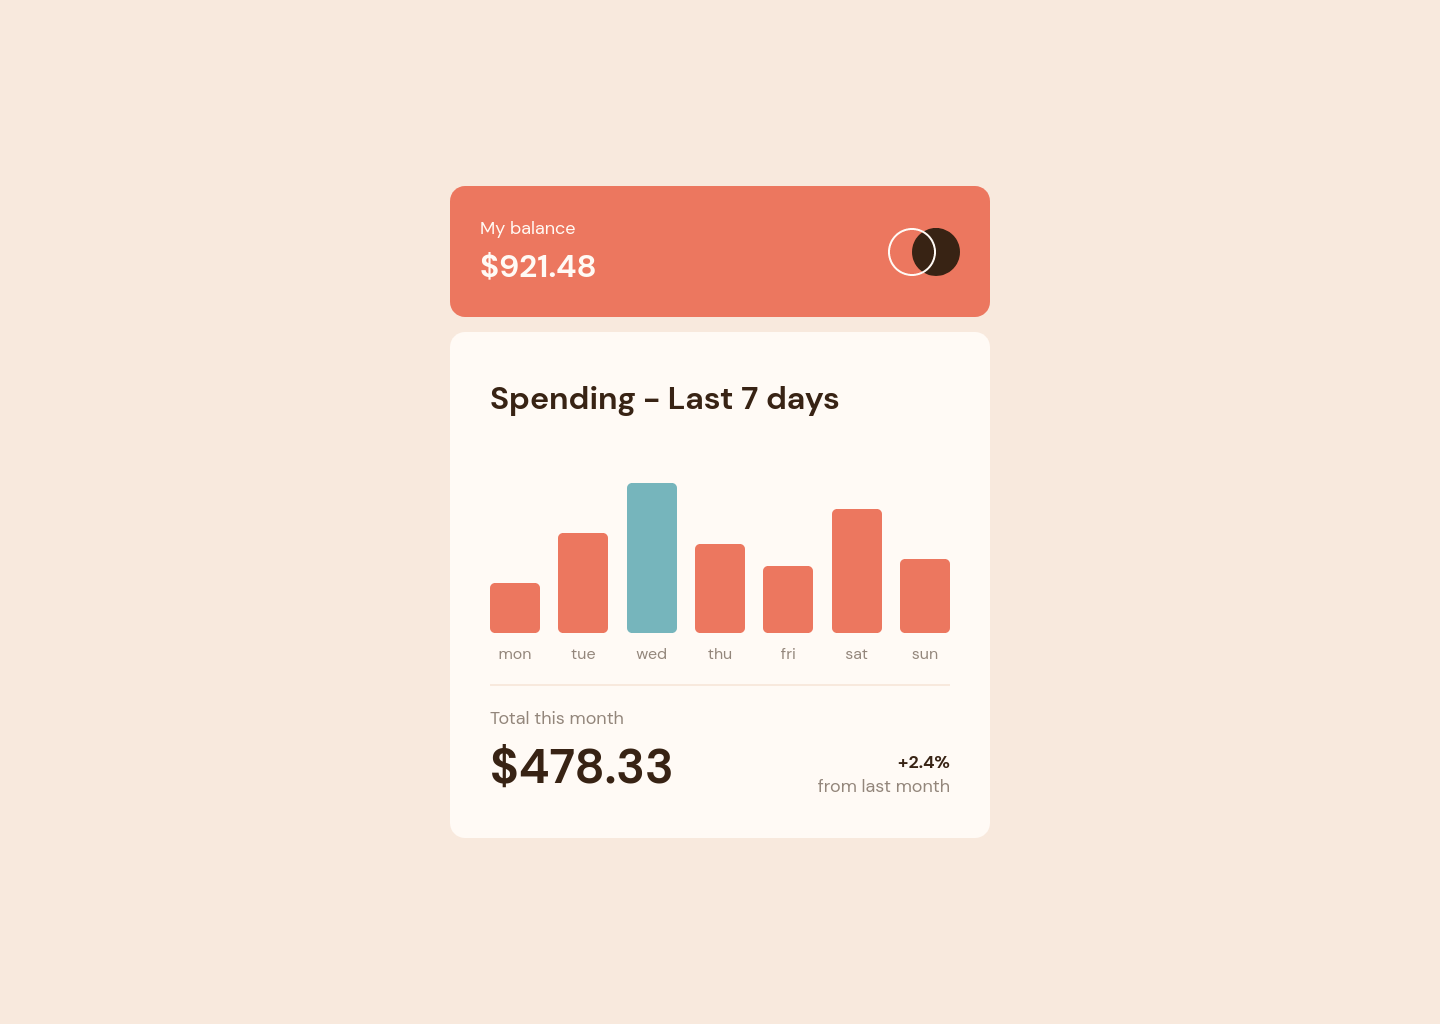
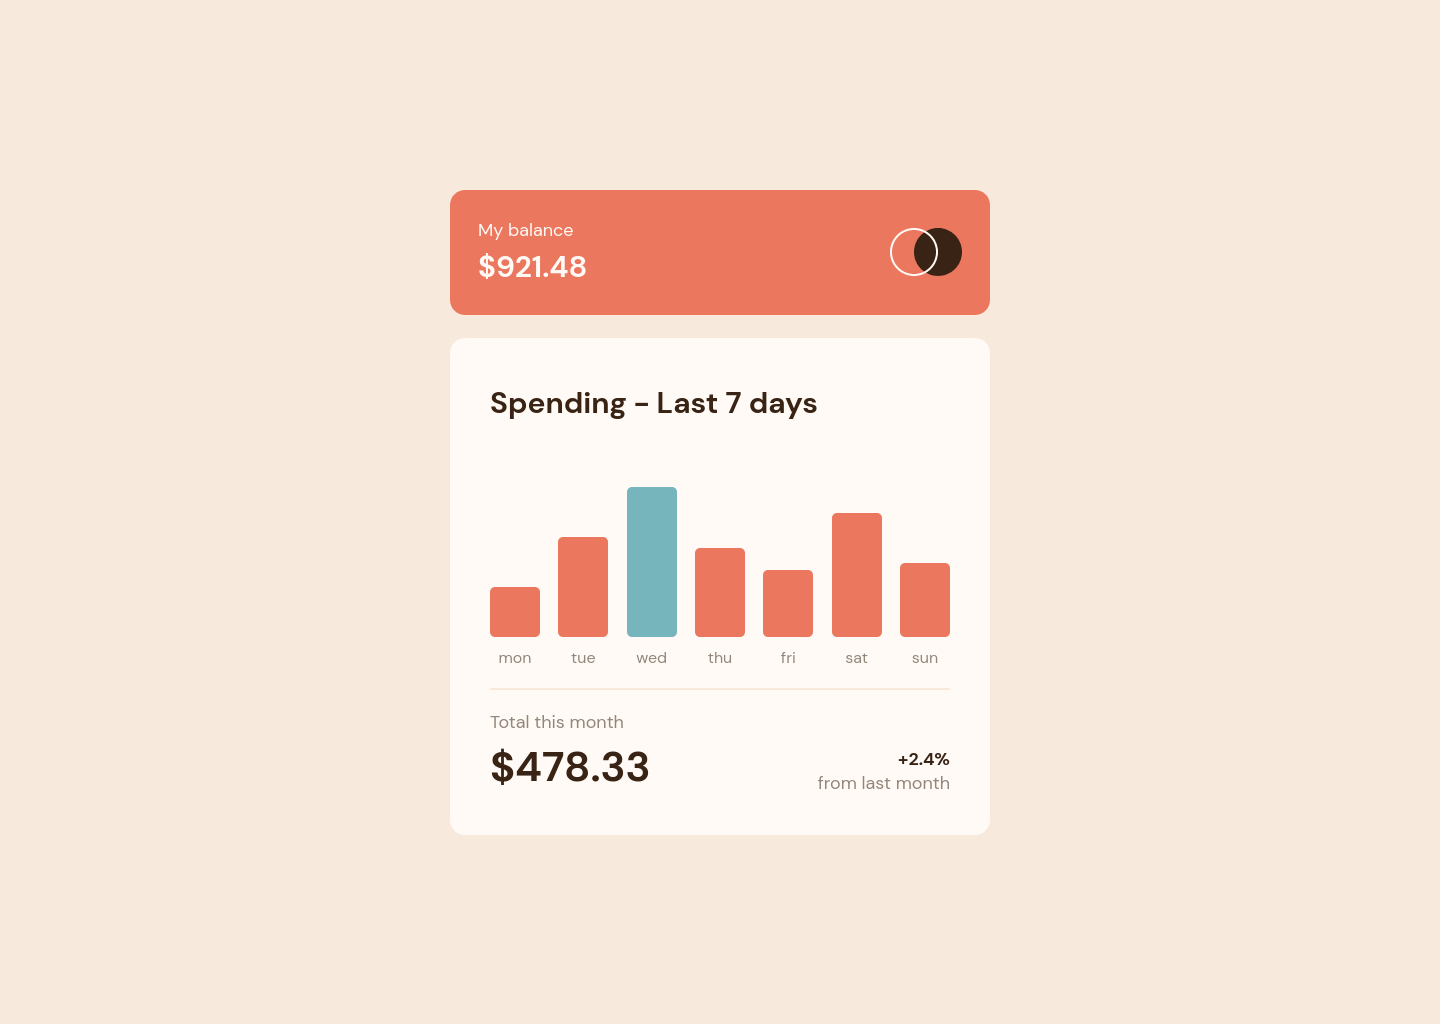
Pixel perfect desktop.

diff --git a/css/style.css b/css/style.css
@@ -48,11 +48,11 @@ article {
     }
 
     h1 {
-        font-size: 3rem;
+        font-size: 2.625rem;
     }
     
     h2 {
-        font-size: 2rem;
+        font-size: 1.875rem;
     }
 
     p {
@@ -184,10 +184,11 @@ article {
     }
 
     .balance {
-        padding: 30px;
+        padding: 28px;
+        margin-bottom: 23px;
     }
     .expenses {
-        padding: 40px;
+        padding: 48px 40px
     }
 
     .column > .bar {
